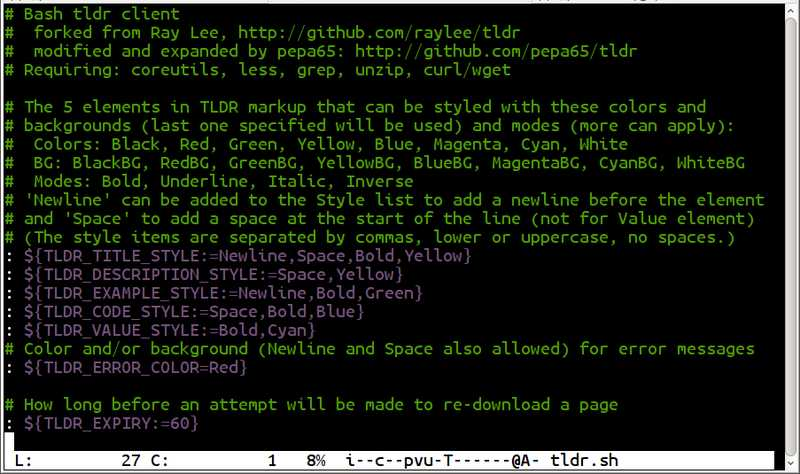
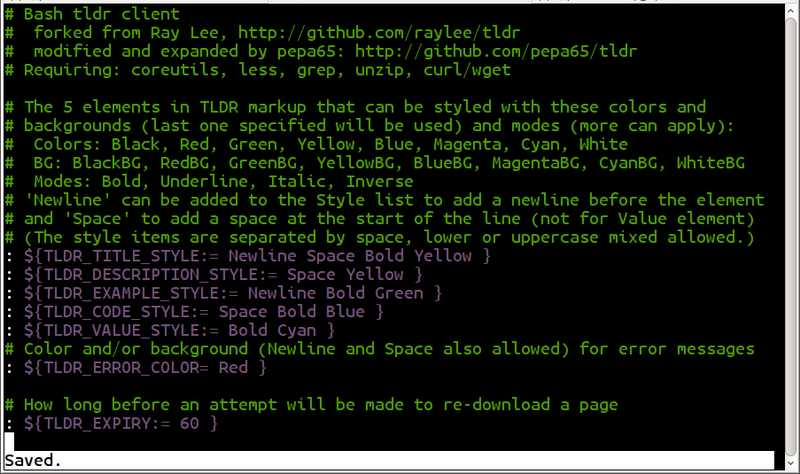
Change presentation of styles list, spaces instead of comma Make screenshots present smaller

diff --git a/README.md b/README.md
@@ -1,12 +1,12 @@
-# tldr-bash
+# tldr (bash)
 
 **A fully-functional [bash](https://tiswww.case.edu/php/chet/bash/bashtop.html)
 client for the [tldr](https://github.com/rprieto/tldr/) project, providing
 poignant examples of terminal commands.**
 
-![tldr screenshot list](tldr-list.jpg?raw=true)
+![tldr screenshot list](tldr-list.jpg?raw=true "tldr list" {width=800px})
 
-![tldr screenshot page](tldr-page.jpg?raw=true)
+![tldr screenshot page](tldr-page.jpg?raw=true "tldr page" {width=800px})
 
 ## Installation
 Download the tldr bash script to the install location:
@@ -22,30 +22,30 @@ If the location is not in $PATH, you need to specify the path to run it.
 ### Prerequisites
 coreutils, less, grep, unzip, curl / wget
 
-![tldr screenshot usage](tldr-usage.jpg?raw=true)
+![tldr screenshot usage](tldr-usage.jpg?raw=true "tldr usage" {width=800px})
 
 ## Customisation
 The colors and other styling of the 5 elements of tldr pages can be modified
 either by editing the first few lines of the scipt, or by setting the following
 environment variables:
-* TLDR_TITLE_STYLE (defaults to Newline,Space,Bold,Yellow)
-* TLDR_DESCRIPTION_STYLE (defaults to Space,Yellow)
-* TLDR_EXAMPLE_STYLE (defaults to Newline,Bold,Green)
-* TLDR_CODE_STYLE (defaults to Space,Bold,Blue)
-* TLDR_VALUE_STYLE (defaults to Bold,Cyan)
+* TLDR_TITLE_STYLE (defaults to: Newline Space Bold Yellow)
+* TLDR_DESCRIPTION_STYLE (defaults to: Space Yellow)
+* TLDR_EXAMPLE_STYLE (defaults to: Newline Bold Green)
+* TLDR_CODE_STYLE (defaults to: Space Bold Blue)
+* TLDR_VALUE_STYLE (defaults to: Bold Cyan)
 
 Also the error color and page expiry can easily be set:
-* TLDR_ERROR_COLOR (defaults to Red)
-* TLDR_EXPIRY (defaults to 60)
+* TLDR_ERROR_COLOR (defaults to: Red)
+* TLDR_EXPIRY (defaults to: 60)
 
-![tldr screenshot customize](tldr-customize.jpg?raw=true)
+![tldr screenshot customize](tldr-customize.jpg?raw=true "tldr customize" {width=800px})
 
 ## Contributing
 
 Please file an issue for a question, a bug or a feature request.
 Or even better, send a pull request!
 
-![tldr screenshot markdown](tldr-markdown.jpg?raw=true)
+![tldr screenshot markdown](tldr-markdown.jpg?raw=true "tldr markdown" {width=800px})
 
 ### License
 
